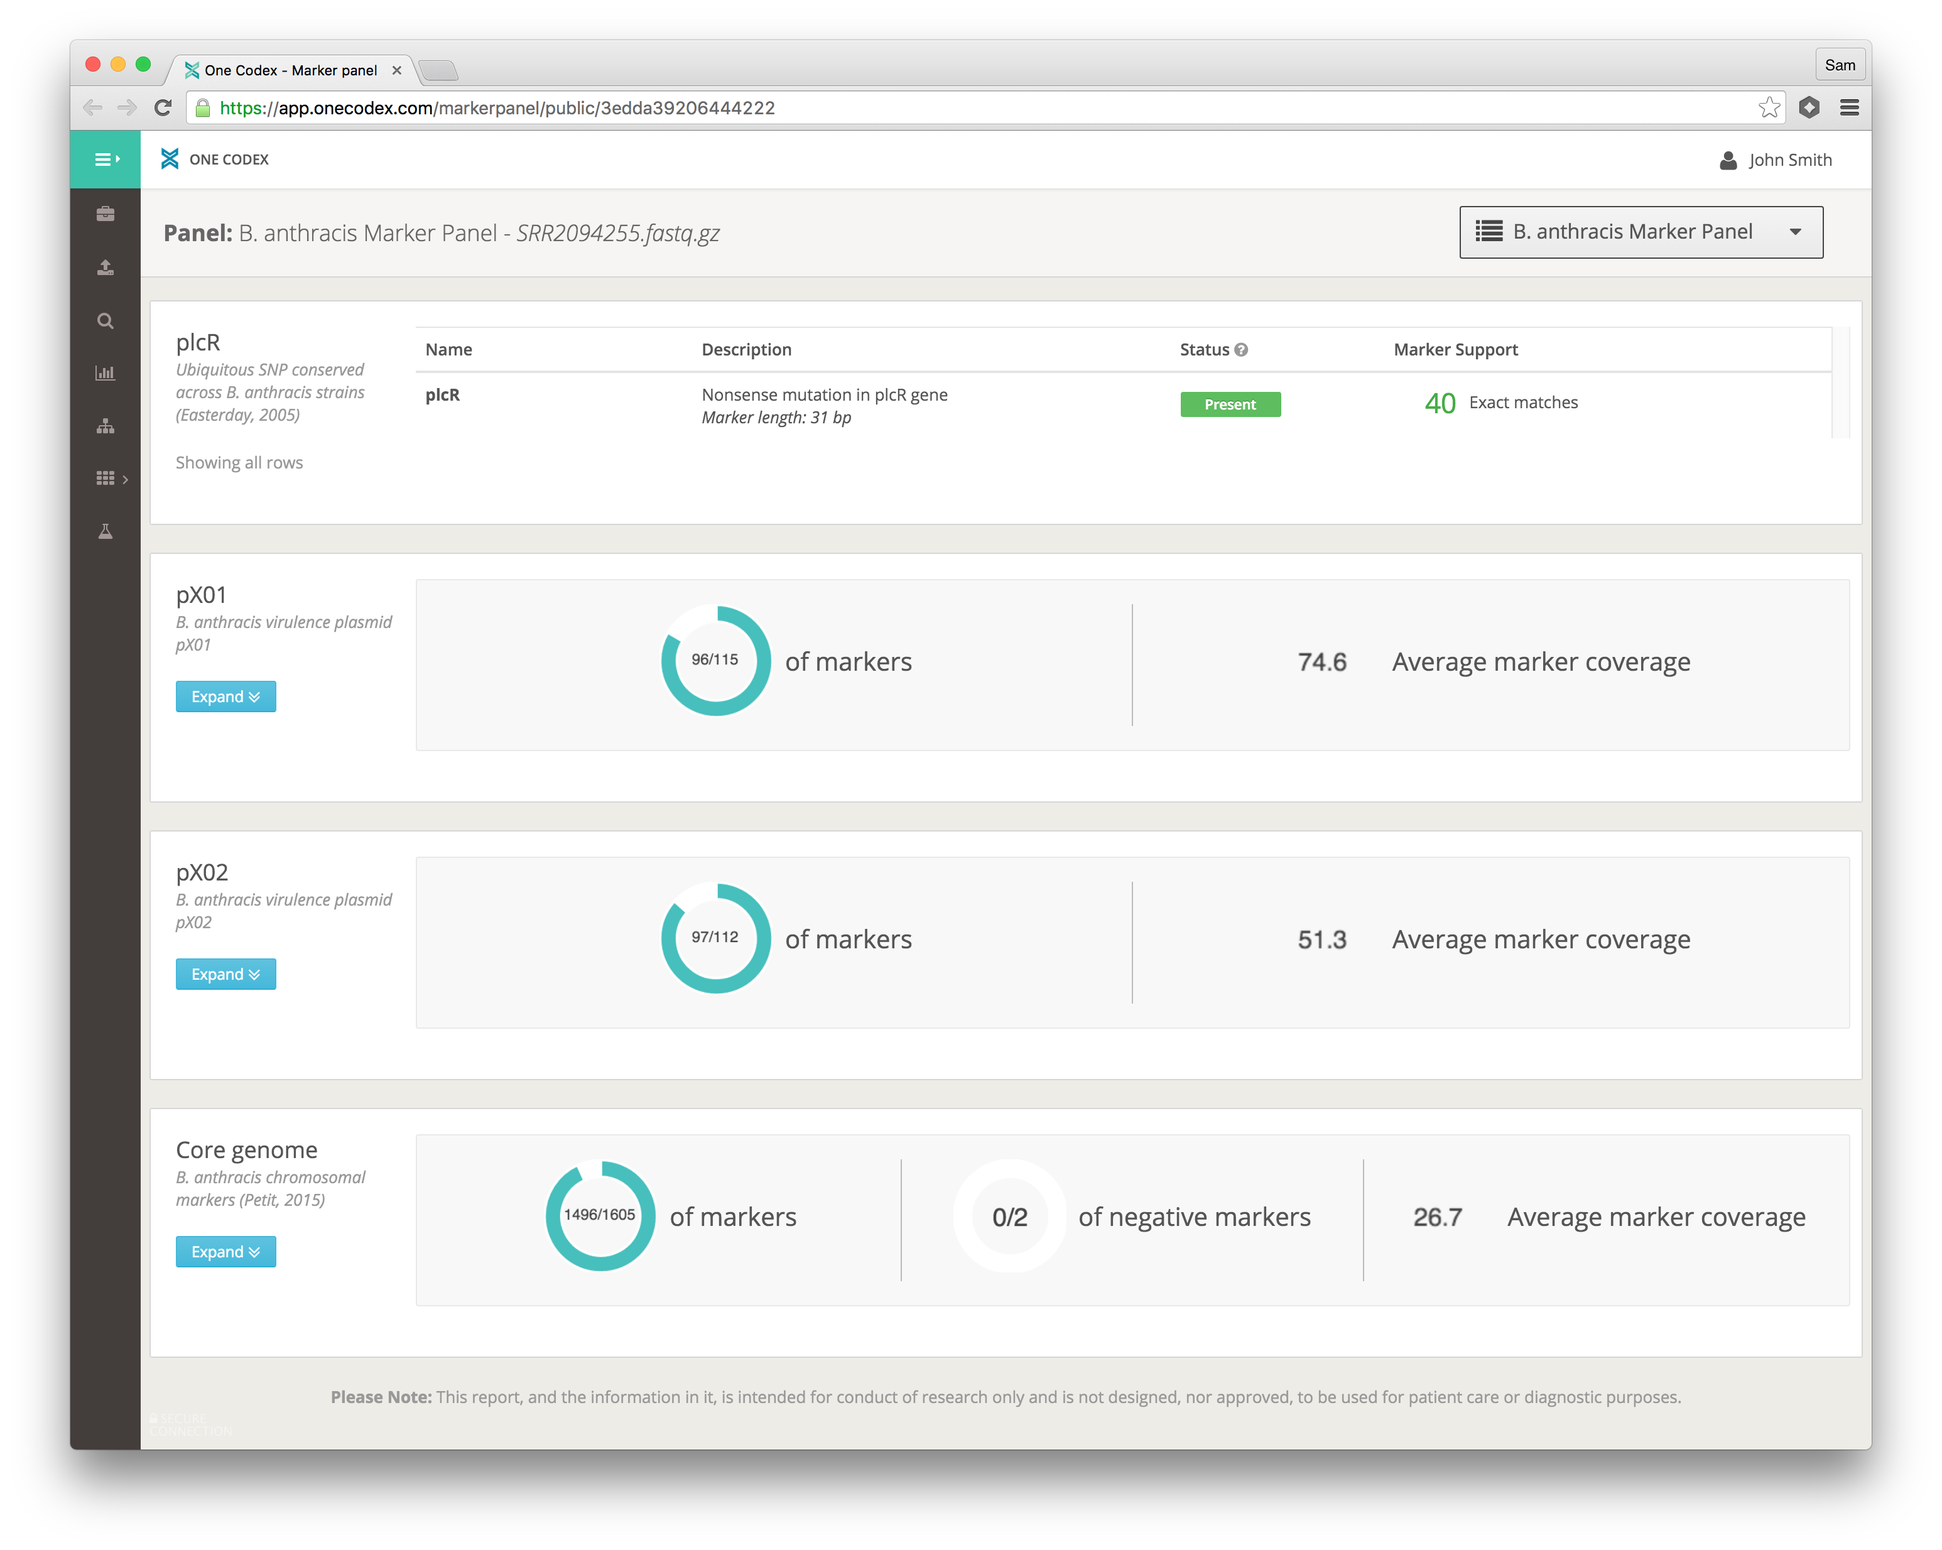
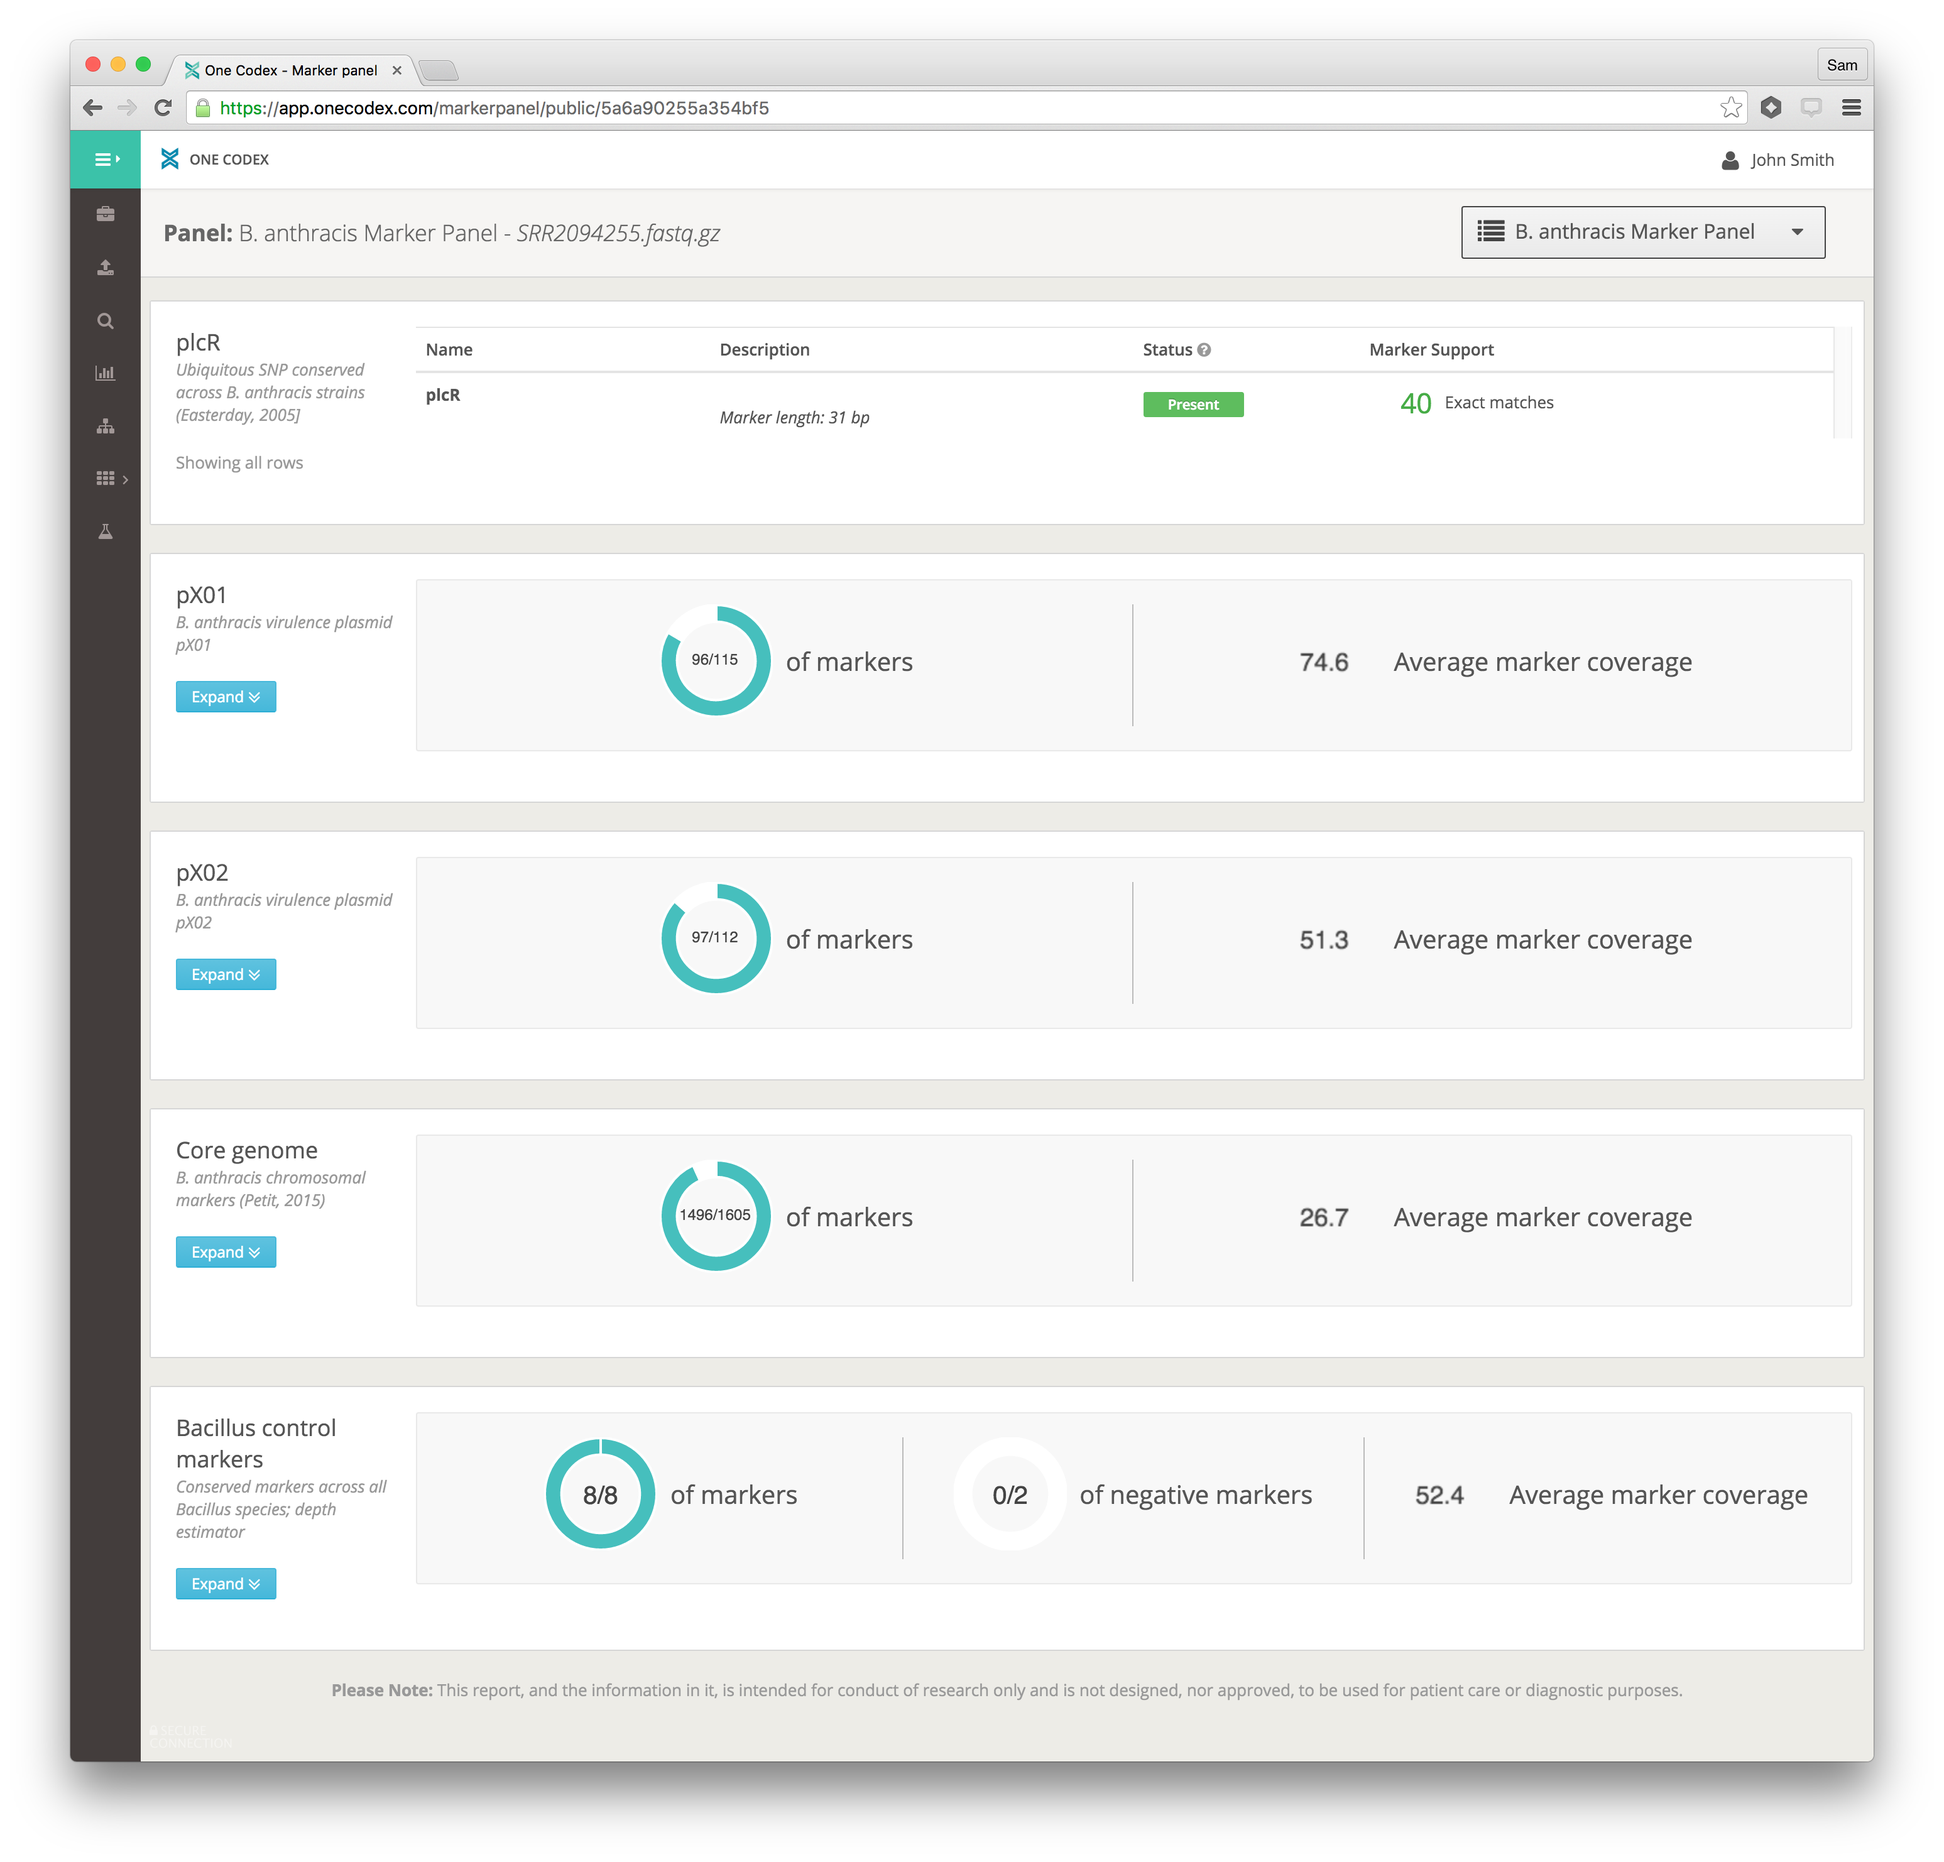
Example analyses and screenshots

diff --git a/_figures/prop.core.over.bacillus.near_neighbor.md b/_figures/prop.core.over.bacillus.near_neighbor.md
@@ -3,7 +3,7 @@ layout: figure
 order: 8
 label: Figure 7
 description: ""
-title: "Boxplot showing the proportion of *B. anthracis* sequencing depth divided by the depth at conserved *Bacillus* markers for a collection of metagenomic samples containing *B. anthracis* at a variety of spike-in levels. These synthetic datasets are the same as those depicted in [Figure 6](#figure-6). The amount of spiked-in near neighbor remains constant over this series of samples (150K reads), which is at roughly 10X sequencing depth. In the absence of the near neighbor (bottom panel) the proportion of *B. anthracis* / all *Bacillus* remains relatively constant, across the range of spike-in amounts. In the presence of the near neighbor (top panel), this proportion of *B. anthracis* / all *Bacillus* increases with the amount of *B. anthracis* added to the sample. At the lowest level of *B. anthracis* spike-in (0.1X), the relative proportion of *B. anthracis* sequencing depth ranges from 0.5% - 0.8%, much above the proportion expected due to sequencing error."
+title: "Boxplot showing the proportion of *B. anthracis* sequencing depth divided by the depth at conserved *Bacillus* markers for a collection of metagenomic samples containing *B. anthracis* at a variety of spike-in levels. These synthetic datasets are the same as those depicted in [Figure 6](#figure-6). The amount of spiked-in near neighbor remains constant over this series of samples (150K reads), which is at roughly 10X sequencing depth. In the absence of the near neighbor (bottom panel) the proportion of *B. anthracis* / all *Bacillus* remains relatively constant, across the range of spike-in amounts. In the presence of the near neighbor (top panel), this proportion of *B. anthracis* / all *Bacillus* increases with the amount of *B. anthracis* added to the sample. At the lowest level of *B. anthracis* spike-in (0.1X), the relative proportion of *B. anthracis* sequencing depth ranges from 0.5% - 0.8%, much above the proportion expected due to sequencing error. Note that the vertical axis is not shared between the two panels in this figure. "
 image: "data/figures/near.neighbor.prop.detected.over.bacillus.png"
 ---
 <img src="{{ site.baseurl }}/data/figures/near.neighbor.prop.detected.over.bacillus.png">

diff --git a/_sections/methods.md b/_sections/methods.md
@@ -5,7 +5,7 @@ order: 3
 
 ### Marker Panel Construction
 
-A "Marker Panel” on the [One Codex platform](https://app.onecodex.com) consists of a set of target sequences that are compared against an input dataset of short reads, long reads, assemblies, or complete genomes. A marker panel summarizes samples by the aggregate coverage, depth, and nucleotide identity of all input sequences aligned against the carefully selected target sequences. These target sequences are grouped for ease of interpretation and presented to the end user with group-level summary statistics. An [example Marker Panel result page](https://app.onecodex.com/markerpanel/public/3edda39206444222) is shown in [Figure 1](#figure-1).
+A "Marker Panel” on the [One Codex platform](https://app.onecodex.com) consists of a set of target sequences that are compared against an input dataset of short reads, long reads, assemblies, or complete genomes. A marker panel summarizes samples by the aggregate coverage, depth, and nucleotide identity of all input sequences aligned against the carefully selected target sequences. These target sequences are grouped for ease of interpretation and presented to the end user with group-level summary statistics. An [example Marker Panel result page](https://app.onecodex.com/markerpanel/public/5a6a90255a354bf5) is shown in [Figure 1](#figure-1).
 
 The *B. anthracis* marker panel was assembled to detect the presence of *B. anthracis* using four specific types of probes:
 

diff --git a/_figures/example.analyses.md b/_figures/example.analyses.md
@@ -1,0 +1,44 @@
+---
+layout: figure
+order: 9
+label: Table 2
+title: "Example Analyses"
+description: ""
+source: ../data/example.analyses.tsv
+---
+<table class="table table-bordered">
+<thead>
+    <tr>
+    <th>Name</th>
+    <th>Description</th>
+    <th>Number of <em>B. anthracis</em> kmers detected</th>
+    <th><em>B. anthracis</em> depth / <em>Bacillus</em> depth</th>
+    <th>URL</th>
+    </tr>
+</thead>
+<tbody>
+    <tr>
+        <td>SRR2094255</td>
+        <td>WGS of Bacillus anthracis isolate "Scotland 477"</td>
+        <td>42,853</td>
+        <td>51.0%</td>
+        <td><a href="https://app.onecodex.com/markerpanel/public/5a6a90255a354bf5">Link</a></td>
+    </tr>
+    <tr>
+        <td>NYC Subway - Pelham Pkwy</td>
+        <td>Metagenomic sequencing of NYC Subway - 4.5M reads</td>
+        <td>1</td>
+        <td>0.009%</td>
+        <td><a href="https://app.onecodex.com/markerpanel/public/5a6a90255a354bf5">Link</a></td>
+    </tr>
+    <tr>
+        <td>NYC Subway - J Train</td>
+        <td>Metagenomic sequencing of NYC Subway - 3.4M reads</td>
+        <td>4</td>
+        <td>0.008%</td>
+        <td><a href="https://app.onecodex.com/markerpanel/public/5a6a90255a354bf5">Link</a></td>
+    </tr>
+</tbody>
+</table>
+
+

diff --git a/_figures/example-panel.md b/_figures/example-panel.md
@@ -3,7 +3,7 @@ layout: figure
 order: 1
 label: Figure 1
 description: ""
-title: "Example of *B. anthracis* Marker Panel summarizing the detection of the *plcR* SNP, the pXO1 and pXO2 plasmids, and the *B. anthacis* core genome. [Link to example on the One Codex platform]()."
+title: "Example of *B. anthracis* Marker Panel summarizing the detection of the *plcR* SNP, the pXO1 and pXO2 plasmids, and the *B. anthacis* core genome. [Link to example on the One Codex platform](https://app.onecodex.com/markerpanel/public/5a6a90255a354bf5)."
 image: "data/figures/example-Banthracis-marker-panel.png"
 ---
 <img src="{{ site.baseurl }}/data/figures/example-Banthracis-marker-panel.png">
